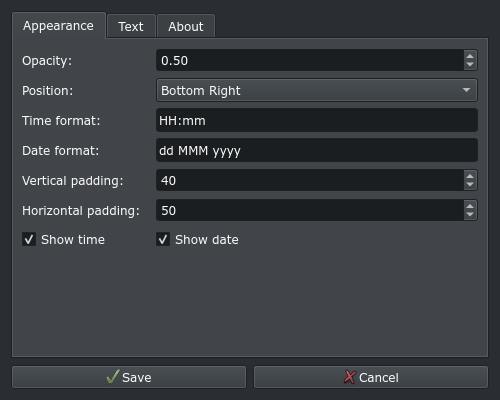
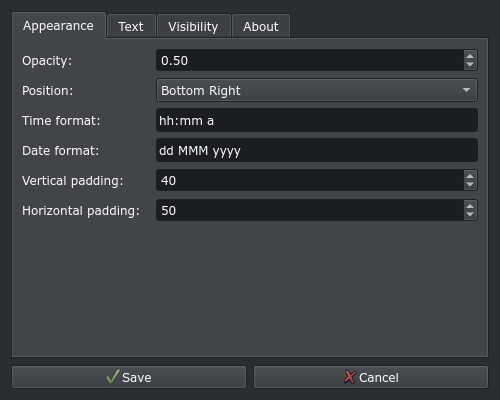
Update README and images

diff --git a/README.md b/README.md
@@ -19,6 +19,8 @@ Hoverclock is a simple, yet customizable floating clock for Linux created with Q
   * [Arch based distro users](#arch-based-distro-users)
   * [Other distros](#other-distros)
 * [Optional dependencies](#optional-dependencies)
+  * [AppImageLauncher](#appimagelauncher)
+  * [X Server](#x-server)
 * [Configuration](#configuration)
 * [Building and deploying](#building-and-deploying)
   * [Build dependencies](#build-dependencies)
@@ -52,9 +54,15 @@ Make the file executable by running `chmod u+x Hoverclock-x86_64.AppImage`.
 Double-click to run it or run it from a terminal using `/path/to/the/downloaded/file/Hoverclock-x86_64.AppImage`.
 
 ## Optional dependencies
+### AppImageLauncher
 If you are using an Arch based Linux distribution and you want to integrate this application in your system, a simple solution is to install [AppImageLauncher](https://aur.archlinux.org/packages/appimagelauncher/) from the AUR. 
 
 After installing it, double clicking the AppImage file will open up the AppImageLauncher and will offer an option to `Integrate and run`.
+
+### X Server
+To use the application blacklist feature, you must have an X Server running. If you are using Wayland, make sure you have XWayland installed.
+
+To support different systems, the blacklist feature is disabled by default and you need to enable it in the Visibility tab of the settings dialog to use it.
 
 ## Configuration
 As stated previously, Hoverclock is designed to be customizable. 
@@ -63,6 +71,7 @@ Once the software is running, right clicking on the system tray icon brings up a
 
 ![Appearance settings screenshot](images/settings_appearance.png)
 ![Text settings screenshot](images/settings_text.png)
+![Visibility settings screenshot](images/settings_visibility.png)
 
 Left clicking the system tray icon will toggle the visibility of the clock.
 
@@ -72,10 +81,8 @@ To make the build and deploy process as simple as possible, I have created a sim
 To build and run the docker container, use the following commands:
 ```
 $ docker build --network=host -t hoverclock /path/to/project/directory
-$ docker run --cap-add SYS_ADMIN --device /dev/fuse --rm -it -v /path/to/project/directory:/app hoverclock
+$ docker run --cap-add SYS_ADMIN --device /dev/fuse --rm -v /path/to/project/directory:/app hoverclock make
 ```
-
-After you are inside the container, run  `make` and the build process will begin. 
 
 When it finished building, you should have an AppImage in the project directory.
 
@@ -91,7 +98,7 @@ After doing so, you can proceed to run the docker container with the above menti
 ## Future work
 - [ ] Add terminal support to open and configure settings
 - [ ] Add support for multi-monitor setups
-- [ ] Add a feature that allows you to specify programs in which you want to hide the clock.
+- [x] Add a feature that allows you to specify programs in which you want to hide the clock.
 - [ ] Add Light and Dark mode icon support
 
 ## Getting help
